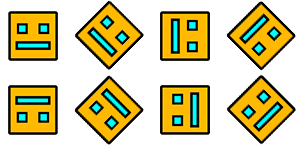
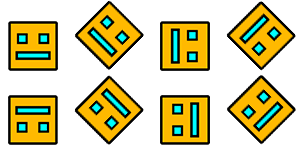
анимация(надо сделать помедленние)

diff --git a/personage.py b/personage.py
@@ -33,6 +33,13 @@ class Personage(pygame.sprite.Sprite):
             self.rect = self.rect.move(0, 11)
             self.cur_frame = (self.cur_frame + 1) % len(self.frames)
             self.image = self.frames[self.cur_frame]
+        elif pygame.sprite.spritecollideany(self, obj):
+            if self.cur_frame % 2 == 0:
+                self.image = self.frames[self.cur_frame]
+            elif self.cur_frame == 7:
+                self.image = self.frames[0]
+            else:
+                self.image = self.frames[self.cur_frame + 1]
         return ans
 
 
